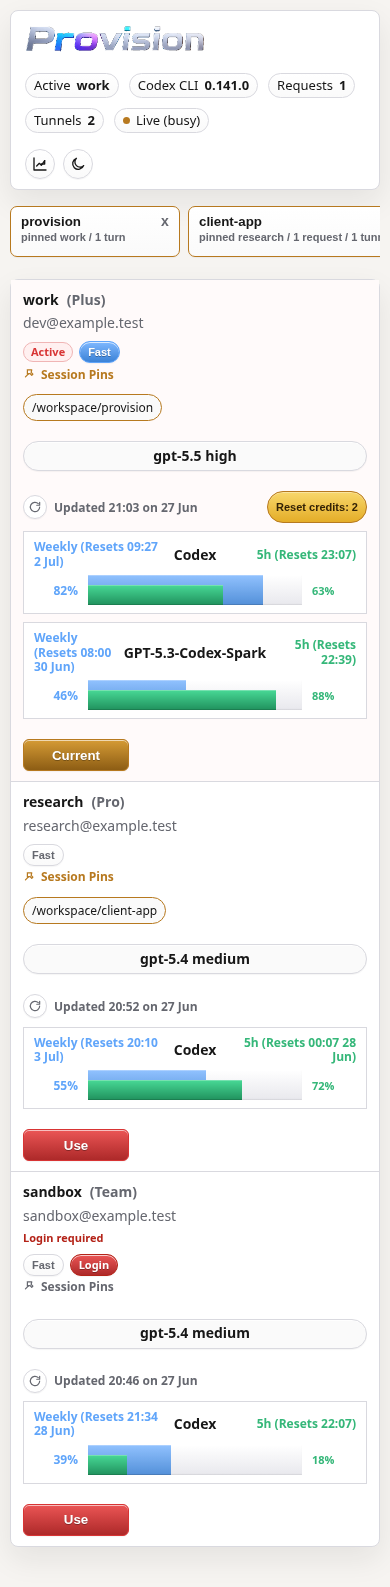
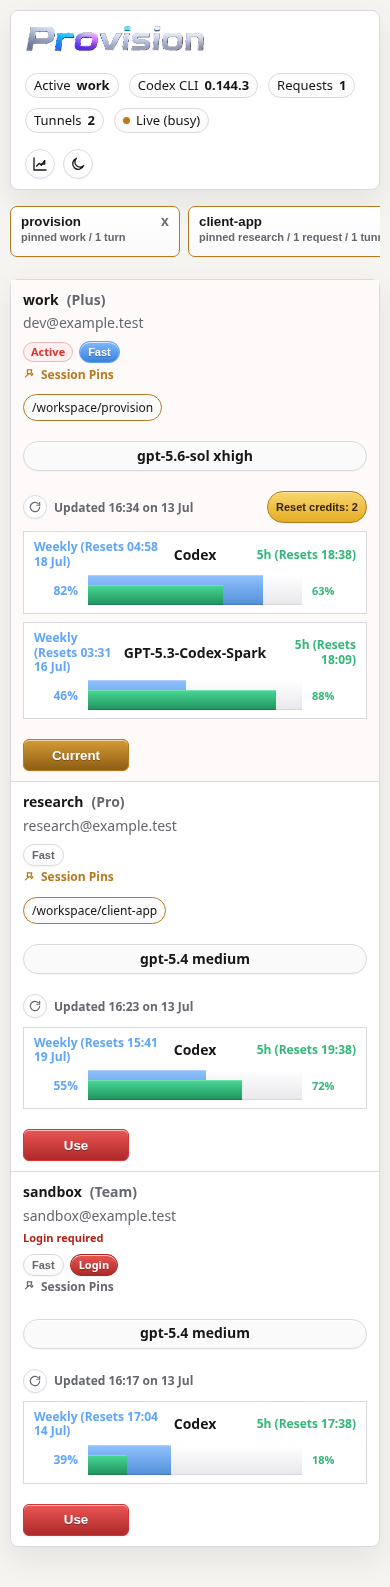
Release Provision 0.5.0

diff --git a/tools/render_demo_assets.py b/tools/render_demo_assets.py
@@ -239,32 +239,32 @@ class DemoServer:
             key = str(session.get("key") or "")
             transcript = [
                 {
-                    "ts": (datetime.now() - timedelta(minutes=12)).isoformat(),
-                    "updated_at": (datetime.now() - timedelta(minutes=12)).isoformat(),
+                    "ts": (datetime.now() - timedelta(minutes=10, seconds=30)).isoformat(),
+                    "updated_at": (datetime.now() - timedelta(minutes=10, seconds=30)).isoformat(),
                     "role": "user",
-                    "text": "Tighten the release notes and verify the quota dashboard behavior.",
+                    "text": "! git status --short",
                     "turn_id": "turn_demo",
                     "profile": session.get("last_profile") or "work",
-                    "search_text": "user release notes quota dashboard",
+                    "search_text": "user git status short",
                 },
                 {
                     "ts": (datetime.now() - timedelta(minutes=10)).isoformat(),
                     "updated_at": (datetime.now() - timedelta(minutes=10)).isoformat(),
                     "role": "tool",
-                    "text": "Command: python3 tools/render_demo_assets.py (status completed, exit 0)\nStdout:\nRendered sanitized dashboard media.",
+                    "text": "Command: git status --short (exit 0, duration 0.018s)\nOutput:\nM README.md\nM src/provision/daemon.py",
                     "turn_id": "turn_demo",
                     "profile": session.get("last_profile") or "work",
-                    "search_text": "tool render demo assets",
-                    "call_id": "call_demo",
+                    "search_text": "tool git status short readme daemon",
+                    "call_id": "call_demo_shell",
                 },
                 {
                     "ts": (datetime.now() - timedelta(minutes=8)).isoformat(),
                     "updated_at": (datetime.now() - timedelta(minutes=8)).isoformat(),
                     "role": "assistant",
-                    "text": "I updated the release copy, checked the dashboard layout, and confirmed the active session indicators remain visible.",
+                    "text": "The working tree contains the intended release changes. The Discussion capture now shows the shell command as a structured activity card.",
                     "turn_id": "turn_demo",
                     "profile": session.get("last_profile") or "work",
-                    "search_text": "assistant updated release copy dashboard active session indicators",
+                    "search_text": "assistant release discussion shell command activity card",
                 },
             ]
             for transcript_index, item in enumerate(transcript):
@@ -303,7 +303,7 @@ class DemoServer:
                 "end_index": len(transcript) - 1,
                 "timestamp": transcript[0]["ts"],
                 "updated_at": transcript[-1]["updated_at"],
-                "label": "Tighten the release notes and verify the quota dashboard behavior.",
+                "label": "git status --short",
             }
             sessions.append(
                 dict(
@@ -358,8 +358,8 @@ class DemoServer:
         return profile == "work"
 
     def profile_model_setting(self, profile: str) -> dict[str, Any]:
-        model = "gpt-5.5" if profile == "work" else "gpt-5.4"
-        reasoning = "high" if profile == "work" else "medium"
+        model = "gpt-5.6-sol" if profile == "work" else "gpt-5.4"
+        reasoning = "xhigh" if profile == "work" else "medium"
         return {
             "model": model,
             "reasoning_effort": reasoning,
@@ -545,9 +545,27 @@ def quota_window(remaining_percent: float, window_seconds: int, reset_seconds: i
 
 
 def render_demo_html() -> str:
+    import provision.daemon as daemon_module
+
     handler = Handler.__new__(Handler)
     handler.server = DemoServer()
-    html = handler.render_ui()
+    original_compatibility_payload = daemon_module.codex_compatibility_payload
+    daemon_module.codex_compatibility_payload = lambda: {
+        "cli": {"available": True, "version": "0.144.3", "error": ""},
+        "runtime_cli": {"available": True, "version": "0.144.3", "error": ""},
+        "restart_required": {
+            "required": False,
+            "startup_version": "0.144.3",
+            "runtime_version": "0.144.3",
+            "reason": "",
+        },
+        "model_catalog": {"source": "demo", "available": True, "count": 6, "error": ""},
+        "app_server": {"available": True},
+    }
+    try:
+        html = handler.render_ui()
+    finally:
+        daemon_module.codex_compatibility_payload = original_compatibility_payload
     return html.replace("\n\t    connect();", "\n\t    // Demo page: the live daemon WebSocket is intentionally disabled.")
 
 
@@ -589,6 +607,7 @@ try {
 const outDir = process.env.DEMO_OUT_DIR;
 const url = process.env.DEMO_URL;
 const frameDir = process.env.DEMO_FRAME_DIR;
+const discussionFrameDir = process.env.DEMO_DISCUSSION_FRAME_DIR;
 const browserPath = process.env.DEMO_CHROMIUM_EXECUTABLE || "";
 
 async function newPage(browser, viewport, isMobile = false) {
@@ -623,8 +642,35 @@ async function newPage(browser, viewport, isMobile = false) {
   await session.page.waitForTimeout(150);
   await session.page.screenshot({
     path: path.join(outDir, "provision-control-plane-desktop-light.png"),
-    fullPage: true
+    fullPage: false
   });
+  await session.context.close();
+
+  session = await newPage(browser, { width: 1440, height: 1000 });
+  await session.page.click("#sessionTabs .session-tab[data-session-key]");
+  await session.page.waitForSelector("#controlModal:not([hidden])");
+  await session.page.waitForTimeout(250);
+  await session.page.mouse.move(960, 520);
+  await session.page.waitForTimeout(150);
+  await session.page.screenshot({
+    path: path.join(outDir, "provision-discussion-desktop-light.png"),
+    fullPage: false
+  });
+  fs.mkdirSync(discussionFrameDir, { recursive: true });
+  let discussionFrame = 0;
+  for (; discussionFrame < 12; discussionFrame++) {
+    await session.page.screenshot({ path: path.join(discussionFrameDir, `frame-${String(discussionFrame).padStart(3, "0")}.png`) });
+  }
+  await session.page.click("#controlDetailsView");
+  await session.page.waitForTimeout(250);
+  for (; discussionFrame < 24; discussionFrame++) {
+    await session.page.screenshot({ path: path.join(discussionFrameDir, `frame-${String(discussionFrame).padStart(3, "0")}.png`) });
+  }
+  await session.page.click("#controlDiscussionView");
+  await session.page.waitForTimeout(250);
+  for (; discussionFrame < 48; discussionFrame++) {
+    await session.page.screenshot({ path: path.join(discussionFrameDir, `frame-${String(discussionFrame).padStart(3, "0")}.png`) });
+  }
   await session.context.close();
 
   session = await newPage(browser, { width: 390, height: 844 }, true);
@@ -670,8 +716,10 @@ def render_assets(output_dir: Path) -> None:
     with tempfile.TemporaryDirectory(prefix="provision-demo-") as temp_root:
         site_dir = Path(temp_root) / "site"
         frame_dir = Path(temp_root) / "frames"
+        discussion_frame_dir = Path(temp_root) / "discussion-frames"
         site_dir.mkdir()
         frame_dir.mkdir()
+        discussion_frame_dir.mkdir()
         write_demo_site(site_dir)
         server, url = serve(site_dir)
         try:
@@ -679,6 +727,7 @@ def render_assets(output_dir: Path) -> None:
             env["DEMO_URL"] = url
             env["DEMO_OUT_DIR"] = str(output_dir)
             env["DEMO_FRAME_DIR"] = str(frame_dir)
+            env["DEMO_DISCUSSION_FRAME_DIR"] = str(discussion_frame_dir)
             env["DEMO_CHROMIUM_EXECUTABLE"] = chromium_executable()
             result = subprocess.run(
                 ["node", "-e", NODE_SCRIPT],
@@ -691,6 +740,7 @@ def render_assets(output_dir: Path) -> None:
                 sys.stderr.write(result.stderr)
                 result.check_returncode()
             encode_video(frame_dir, output_dir / "provision-dashboard-theme-toggle.mp4")
+            encode_video(discussion_frame_dir, output_dir / "provision-discussion-demo.mp4")
         finally:
             server.shutdown()
             server.server_close()
@@ -714,6 +764,7 @@ def expected_capture_outputs_exist(output_dir: Path, frame_dir: Path) -> bool:
     required = [
         output_dir / "provision-dashboard-desktop-light.png",
         output_dir / "provision-control-plane-desktop-light.png",
+        output_dir / "provision-discussion-desktop-light.png",
         output_dir / "provision-dashboard-mobile-light.png",
         output_dir / "provision-dashboard-desktop-dark.png",
     ]

diff --git a/src/provision/daemon.py b/src/provision/daemon.py
@@ -11616,6 +11616,10 @@ class Handler(BaseHTTPRequestHandler):
 		      --danger: #ff6b63;
 		      --shadow: 0 14px 34px rgba(0, 0, 0, 0.34);
 		    }
+    html {
+      min-height: 100%;
+      background: var(--page);
+    }
     * { box-sizing: border-box; }
     body {
       margin: 0;
@@ -11646,7 +11650,7 @@ class Handler(BaseHTTPRequestHandler):
 		      border-radius: 6px;
 		      flex: 0 0 auto;
 		    }
-	    .top-meta {
+    .top-meta {
 	      display: flex;
 	      flex-wrap: wrap;
 	      gap: 10px;
@@ -11654,6 +11658,9 @@ class Handler(BaseHTTPRequestHandler):
 	      font-size: 13px;
 	      flex: 1 1 300px;
 	    }
+    #codexRestartRequired[hidden] {
+      display: none;
+    }
     .pill {
       display: inline-flex;
       align-items: center;

diff --git a/src/provision/__init__.py b/src/provision/__init__.py
@@ -1,3 +1,3 @@
 __all__ = ["__version__"]
 
-__version__ = "0.4.0"
+__version__ = "0.5.0"

diff --git a/README.md b/README.md
@@ -19,15 +19,50 @@ another workspace uses a different profile.
 The current implementation targets Codex CLI with ChatGPT login profiles. It is
 not a desktop Codex client or a hosted multi-user service.
 
-The earlier cross-CLI credential research is still available in
+The earlier cross-CLI credential investigation is still available in
 [docs/cli-credential-isolation.md](docs/cli-credential-isolation.md).
+
+## Demo
+
+These screenshots use sanitized fixture data generated by
+`tools/render_demo_assets.py`.
+
+Profile, model, quota, reset-credit, and session overview. The active demo
+profile uses `gpt-5.6-sol` with `xhigh` reasoning:
+
+<p align="center">
+  <picture>
+    <source media="(prefers-color-scheme: dark)" srcset="docs/media/provision-dashboard-desktop-dark.png">
+    <img src="docs/media/provision-dashboard-desktop-light.png" alt="Provision dashboard desktop screenshot" width="860">
+  </picture>
+</p>
+
+Session control plane with observed turns, tool activity, resume controls, and
+terminal-backed compose:
+
+<p align="center">
+  <img src="docs/media/provision-control-plane-desktop-light.png" alt="Provision Codex CLI control plane screenshot" width="860">
+</p>
+
+Discussion keeps messages compact and shows Codex shell-command activity with
+its command, exit status, duration, and output:
+
+<p align="center">
+  <img src="docs/media/provision-discussion-desktop-light.png" alt="Provision Discussion with a Codex shell command card" width="860">
+</p>
+
+<p align="center">
+  <img src="docs/media/provision-dashboard-mobile-light.png" alt="Provision dashboard mobile light mode screenshot" width="260">
+</p>
+
+[Discussion walkthrough](docs/media/provision-discussion-demo.mp4) · [Theme toggle demo](docs/media/provision-dashboard-theme-toggle.mp4)
 
 ## Requirements
 
 - Codex CLI `0.144.0` or newer is the current validation target for the full
   dashboard, GPT-5.6 model picker, quota, and compatibility-reporting path.
 - The current bundled catalog includes GPT-5.6-Sol, GPT-5.6-Terra, and
-  GPT-5.6-Luna (also commonly searched as GPT-5.6 Codex).
+  GPT-5.6-Luna.
 - Python 3.11+ is recommended.
 - The richest quota display depends on Codex CLI and the ChatGPT backend
   reporting multi-bucket usage data. Older Codex CLI versions may still route
@@ -82,6 +117,18 @@ provision --help
 provision help
 provision login --help
 ```
+
+## What’s New In 0.5.0
+
+- Treats Codex CLI `!` shell commands as structured Discussion activity, with
+  the command, exit code, duration, and output shown as a readable command
+  card in both live sessions and recovered native history.
+- Makes OpenAI's temporary weekly-only quota state explicit: the Weekly quota
+  remains in its normal position while the unavailable five-hour horizon is
+  labeled `N/A` / `Not enforced`.
+- Keeps the package metadata and model-catalog documentation current for the
+  supported GPT-5.6 Codex variants.
+- Refreshes the sanitized dashboard media and adds a focused Discussion demo.
 
 ## What’s New In 0.4.0
 
@@ -216,10 +263,10 @@ The dashboard is localhost-only and shows:
   workdirs, active turn state, and session details.
 - A `+` launcher for starting Codex CLI in known workdirs, selecting permission
   presets, and choosing recent sessions to resume.
-- A Discussion view with Markdown rendering, searchable transcript content,
-  tool-call activity, image-generation completion, and a terminal-backed
-  compose box for live interaction. Messages remain content-sized instead of
-  stretching to fill an otherwise sparse pane.
+- A Discussion view with Markdown rendering, transcript content, tool-call
+  activity, image-generation completion, and a terminal-backed compose box for
+  live interaction. Messages remain content-sized instead of stretching to fill
+  an otherwise sparse pane.
 - Incremental live updates, on-demand history loading, and deferred resume
   candidates, so opening or refreshing the dashboard does not repeatedly read
   every known Codex transcript.
@@ -237,33 +284,6 @@ The dashboard is localhost-only and shows:
 
 If the daemon restarts while the page is open, the page reloads so local
 development and daemon upgrades do not leave stale UI code running in-place.
-
-## Demo
-
-These screenshots use sanitized fixture data generated by
-`tools/render_demo_assets.py`.
-
-Profile, model, quota, reset-credit, and session overview:
-
-<p align="center">
-  <picture>
-    <source media="(prefers-color-scheme: dark)" srcset="docs/media/provision-dashboard-desktop-dark.png">
-    <img src="docs/media/provision-dashboard-desktop-light.png" alt="Provision dashboard desktop screenshot" width="860">
-  </picture>
-</p>
-
-Session control plane with observed turns, tool activity, resume controls, and
-terminal-backed compose:
-
-<p align="center">
-  <img src="docs/media/provision-control-plane-desktop-light.png" alt="Provision Codex CLI control plane screenshot" width="860">
-</p>
-
-<p align="center">
-  <img src="docs/media/provision-dashboard-mobile-light.png" alt="Provision dashboard mobile light mode screenshot" width="260">
-</p>
-
-[Theme toggle demo video](docs/media/provision-dashboard-theme-toggle.mp4)
 
 ## Session Pins
 